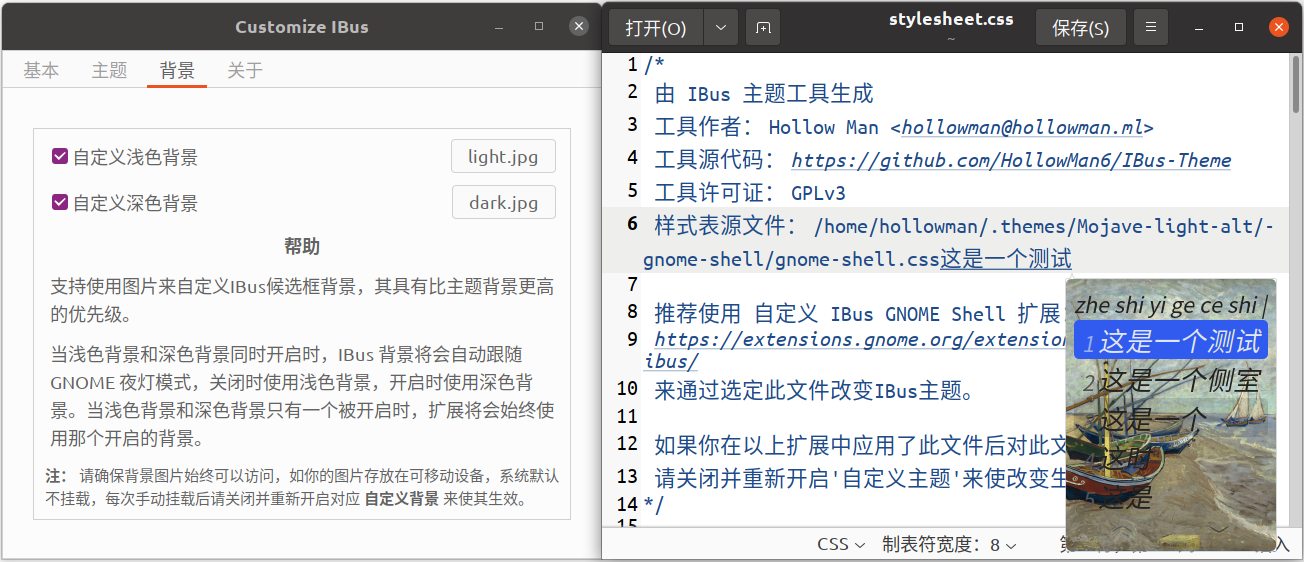
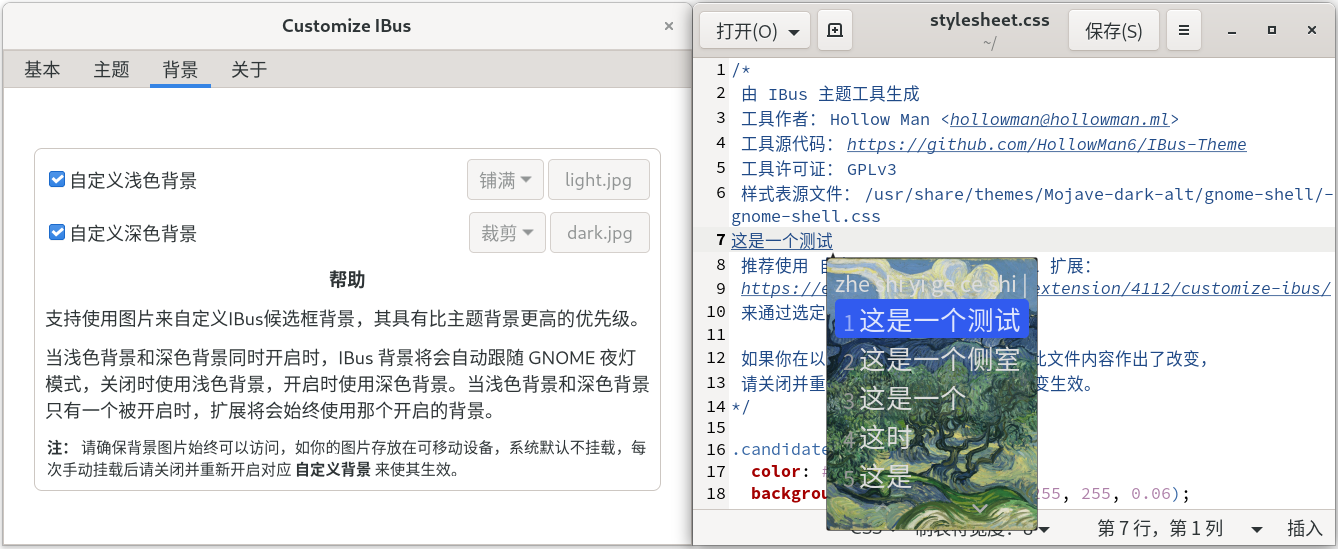
v24: Add background picture displaying mode configure.

diff --git a/customize-ibus@hollowman.ml/prefs.js b/customize-ibus@hollowman.ml/prefs.js
@@ -63,6 +63,19 @@ const CustomizeIBus = GObject.registerClass(
         _("Off"),
         _("Default"),
       ]);
+
+      this._field_bg_mode = this._comboMaker([
+        _("Centered"),
+        _("Repeated"),
+        _("Zoom"),
+      ]);
+
+      this._field_bg_dark_mode = this._comboMaker([
+        _("Centered"),
+        _("Repeated"),
+        _("Zoom"),
+      ]);
+
       this._field_custom_font = new Gtk.FontButton({
         font: gsettings.get_string(Fields.CUSTOMFONT),
       });
@@ -152,8 +165,16 @@ const CustomizeIBus = GObject.registerClass(
       this._themeHelpPage(this._ibus_theme);
 
       this._ibus_bg = this._listFrameMaker(_("Background"));
-      this._ibus_bg._add(this._field_use_custom_bg, this._logoPicker);
-      this._ibus_bg._add(this._field_use_custom_bg_dark, this._logoDarkPicker);
+      this._ibus_bg._add(
+        this._field_use_custom_bg,
+        this._field_bg_mode,
+        this._logoPicker
+      );
+      this._ibus_bg._add(
+        this._field_use_custom_bg_dark,
+        this._field_bg_dark_mode,
+        this._logoDarkPicker
+      );
       this._bgHelpPage(this._ibus_bg);
 
       this._aboutPage();
@@ -172,10 +193,12 @@ const CustomizeIBus = GObject.registerClass(
       });
       this._field_use_custom_bg.connect("notify::active", (widget) => {
         this._logoPicker.set_sensitive(widget.active);
+        this._field_bg_mode.set_sensitive(widget.active);
         ibusGsettings.set_boolean(Fields.USECUSTOMBG, widget.active);
       });
       this._field_use_custom_bg_dark.connect("notify::active", (widget) => {
         this._logoDarkPicker.set_sensitive(widget.active);
+        this._field_bg_dark_mode.set_sensitive(widget.active);
         ibusGsettings.set_boolean(Fields.USECUSTOMBGDARK, widget.active);
       });
       this._field_enable_custom_theme.connect("notify::active", (widget) => {
@@ -231,6 +254,10 @@ const CustomizeIBus = GObject.registerClass(
       this._field_unkown_state.set_sensitive(this._field_enable_ascii.active);
       this._field_orientation.set_sensitive(this._field_enable_orien.active);
       this._field_custom_font.set_sensitive(this._field_use_custom_font.active);
+      this._field_bg_mode.set_sensitive(this._field_use_custom_bg.active);
+      this._field_bg_dark_mode.set_sensitive(
+        this._field_use_custom_bg_dark.active
+      );
       this._logoPicker.set_sensitive(this._field_use_custom_bg.active);
       this._logoDarkPicker.set_sensitive(this._field_use_custom_bg_dark.active);
       this._cssPicker.set_sensitive(this._field_enable_custom_theme.active);
@@ -300,6 +327,18 @@ const CustomizeIBus = GObject.registerClass(
         "active",
         Gio.SettingsBindFlags.DEFAULT
       );
+      gsettings.bind(
+        Fields.BGMODE,
+        this._field_bg_mode,
+        "active",
+        Gio.SettingsBindFlags.DEFAULT
+      );
+      gsettings.bind(
+        Fields.BGDARKMODE,
+        this._field_bg_dark_mode,
+        "active",
+        Gio.SettingsBindFlags.DEFAULT
+      );
       gsettings.connect(
         `changed::${Fields.CUSTOMBG}`,
         this._updateLogoPicker.bind(this)
@@ -351,12 +390,18 @@ const CustomizeIBus = GObject.registerClass(
 
       frame.grid._row = 0;
       frame.set_child(frame.grid);
-      frame._add = (x, y) => {
+
+      frame._add = (x, y, z) => {
+        const boxrow = new Gtk.ListBoxRow({
+          activatable: true,
+        });
         const hbox = new Gtk.Box();
+        boxrow.set_child(hbox);
         hbox.set_spacing(4);
         hbox.append(x);
         if (y) hbox.append(y);
-        frame.grid.attach(hbox, 0, frame.grid._row++, 1, 1);
+        if (z) hbox.append(z);
+        frame.grid.attach(boxrow, 0, frame.grid._row++, 1, 1);
       };
       return frame;
     }

diff --git a/customize-ibus@hollowman.ml/extension.js b/customize-ibus@hollowman.ml/extension.js
@@ -33,6 +33,12 @@ const Fields = Me.imports.fields.Fields;
 const UNKNOWN = { ON: 0, OFF: 1, DEFAULT: 2 };
 const ASCIIMODES = ["en", "A", "英"];
 const INPUTMODE = "InputMode";
+const BGMODES = ["Centered", "Repeated", "Zoom"];
+const BGMODESACTIONS = {
+  Centered: "auto",
+  Repeated: "contain",
+  Zoom: "cover",
+};
 
 const System = {
   LIGHT: "night-light-enabled",
@@ -223,6 +229,24 @@ const IBusBGSetting = GObject.registerClass(
         GObject.ParamFlags.READWRITE,
         false
       ),
+      backgroundMode: GObject.param_spec_uint(
+        "bgmode",
+        "bgmode",
+        "backgroundMode",
+        0,
+        2,
+        2,
+        GObject.ParamFlags.WRITABLE
+      ),
+      backgroundDarkMode: GObject.param_spec_uint(
+        "bgdarkmode",
+        "bgdarkmode",
+        "backgroundDarkMode",
+        0,
+        2,
+        2,
+        GObject.ParamFlags.WRITABLE
+      ),
     },
   },
   class IBusBGSetting extends GObject.Object {
@@ -234,6 +258,13 @@ const IBusBGSetting = GObject.registerClass(
         Fields.CUSTOMBGDARK,
         this,
         "bgdark",
+        Gio.SettingsBindFlags.GET
+      );
+      gsettings.bind(Fields.BGMODE, this, "bgmode", Gio.SettingsBindFlags.GET);
+      gsettings.bind(
+        Fields.BGDARKMODE,
+        this,
+        "bgdarkmode",
         Gio.SettingsBindFlags.GET
       );
       this._candidateBox = CandidatePopup.bin.get_children();
@@ -278,6 +309,16 @@ const IBusBGSetting = GObject.registerClass(
       this._changeBG();
     }
 
+    set bgmode(bgmode) {
+      this._backgroundMode = BGMODESACTIONS[BGMODES[bgmode]];
+      this._changeBG();
+    }
+
+    set bgdarkmode(bgdarkmode) {
+      this._backgroundDarkMode = BGMODESACTIONS[BGMODES[bgdarkmode]];
+      this._changeBG();
+    }
+
     // Load background
     _changeBG(toEnable = true) {
       this._atNight = this._night && this._light;
@@ -290,18 +331,20 @@ const IBusBGSetting = GObject.registerClass(
         toEnable &&
         (!this._atNight || !enabledNight)
       ) {
-        if (Gio.File.new_for_path(this._background).query_exists(null))
+        if (Gio.File.new_for_path(this._background).query_exists(null)) {
           this._bgPic = this._background;
-        else this._bgPic = "";
+          this._bgMode = this._backgroundMode;
+        } else this._bgPic = "";
       } else if (
         this._backgroundDark &&
         enabledNight &&
         toEnable &&
         (this._atNight || !enabled)
       ) {
-        if (Gio.File.new_for_path(this._backgroundDark).query_exists(null))
+        if (Gio.File.new_for_path(this._backgroundDark).query_exists(null)) {
           this._bgPic = this._backgroundDark;
-        else this._bgPic = "";
+          this._bgMode = this._backgroundDarkMode;
+        } else this._bgPic = "";
       } else {
         this._bgPic = "";
       }
@@ -309,8 +352,9 @@ const IBusBGSetting = GObject.registerClass(
         if (this._bgPic) {
           global.log(_("loading background for IBus:") + this._bgPic);
           this._candidateBox.set_style(
-            'background: url("%s"); background-repeat:no-repeat; background-size:cover;'.format(
-              this._bgPic
+            'background: url("%s"); background-repeat:repeat; background-size: %s;'.format(
+              this._bgPic,
+              this._bgMode
             )
           );
           this._candidateBox.add_style_class_name("candidate-box");

diff --git a/customize-ibus@hollowman.ml/fields.js b/customize-ibus@hollowman.ml/fields.js
@@ -23,4 +23,6 @@ var Fields = {
   ENABLEORIEN: "enable-orientation",
   UNKNOWNSTATE: "unkown-ascii-state",
   ORIENTATION: "candidate-orientation",
+  BGMODE: "custom-bg-mode",
+  BGDARKMODE: "custom-bg-dark-mode",
 };
